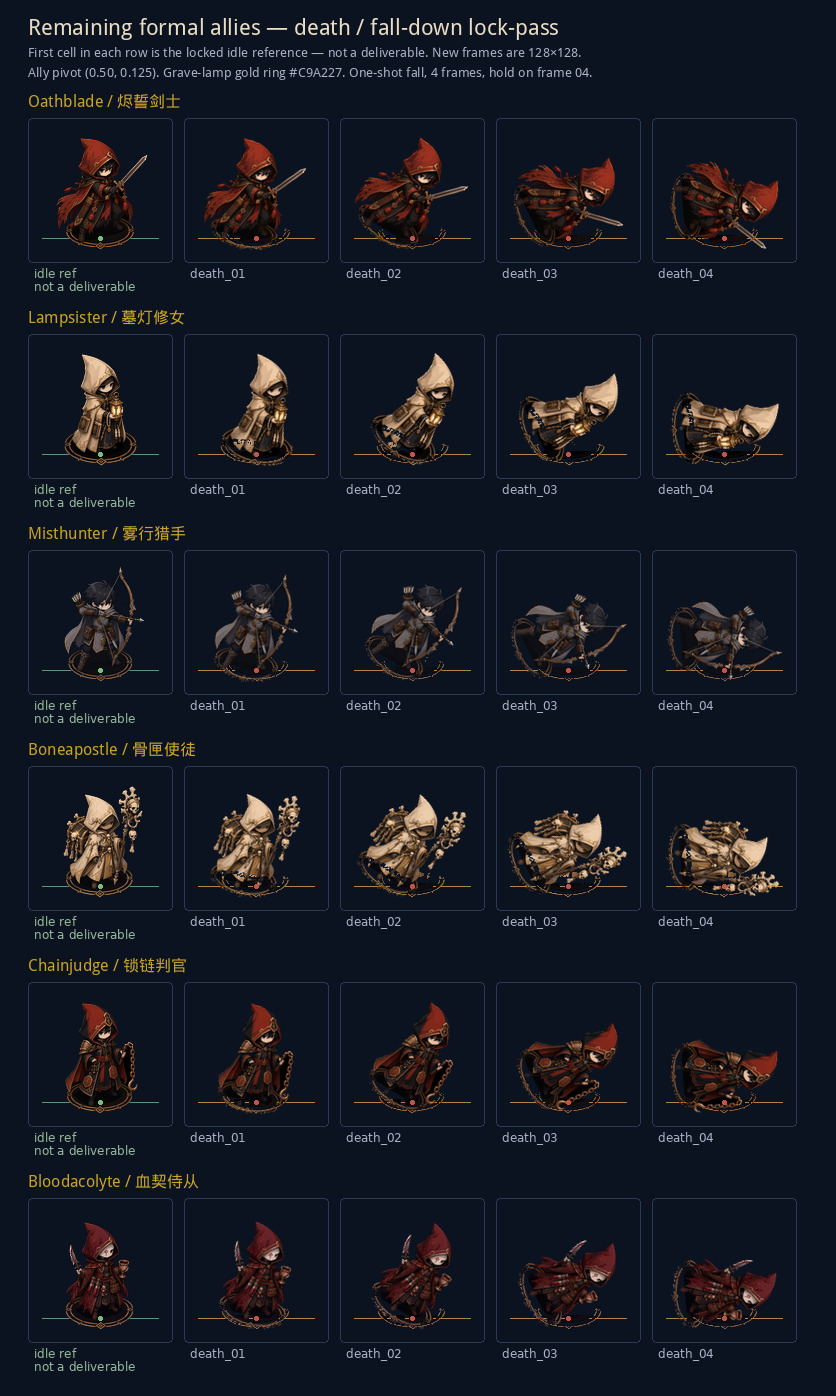
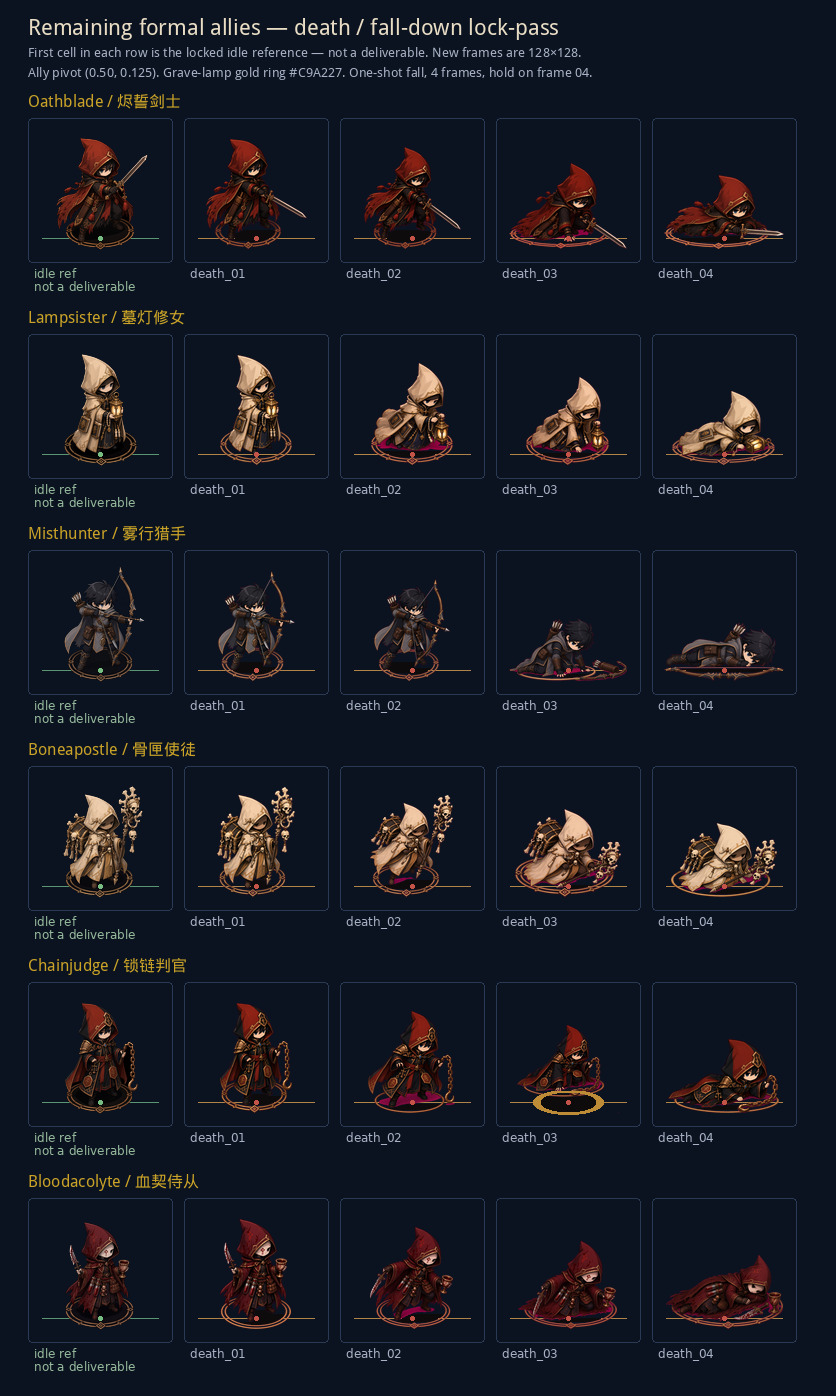
fix: redraw remaining-ally death frames as posed crumples
Replace the tipped idle cutouts with newly posed fall frames: standing
hurt, mid-collapse, near-down, and a held side-lie on a flat gold ring.
Reword the art docs so they no longer say the frames are not wired.

diff --git a/docs/art/USAGE.md b/docs/art/USAGE.md
@@ -54,7 +54,7 @@ Assets/_Project/Art/UI/Hud/ui_ornament_*.png
 Assets/_Project/Art/UI/Hud/ui_bar_endcap_*.png
 ```
 
-Walk and attack paths are shipped for all eight playable allies (`ashguard`, `oathblade`, `lampsister`, `riftmage`, `misthunter`, `boneapostle`, `chainjudge`, `bloodacolyte`). Walk and attack paths for the single M0 enemy placeholder (`unit_placeholder_enemy`, 锈蚀步卒 / Rustsoldier) are also shipped. `unit_placeholder_enemy` is wired into TestArena. Death / fall-down paths for the three default TestArena units (`ashguard`, `riftmage`, `unit_placeholder_enemy`) are shipped as an art lock (see below). Death / fall-down paths for the remaining six official allies are a second art lock (see below) and are not wired. TestArena continues to play the existing idle, walk, and attack clips. M0 hit-flash and death-puff paths are shipped (see below).
+Walk and attack paths are shipped for all eight playable allies (`ashguard`, `oathblade`, `lampsister`, `riftmage`, `misthunter`, `boneapostle`, `chainjudge`, `bloodacolyte`). Walk and attack paths for the single M0 enemy placeholder (`unit_placeholder_enemy`, 锈蚀步卒 / Rustsoldier) are also shipped. `unit_placeholder_enemy` is wired into TestArena. Death / fall-down paths for the three default TestArena units (`ashguard`, `riftmage`, `unit_placeholder_enemy`) are shipped as an art lock (see below). Death / fall-down paths for the remaining six official allies are a second art lock (see below). TestArena keeps playing idle, walk, and attack for those allies. TestArena continues to play the existing idle, walk, and attack clips. M0 hit-flash and death-puff paths are shipped (see below).
 
 Dice faces remain at `Assets/_Project/Art/UI/Dice/ui_dice_{face}_{state}.png`. The HUD kit composites `*_normal` faces into the 48×48 slots; it does not replace the dice pack.
 
@@ -175,7 +175,7 @@ IDs: `ashguard` (灰烬卫士), `oathblade` (烬誓剑士), `lampsister` (墓灯
 | Facing | Right (toward the enemy side) |
 | Ground ring | Grave-lamp gold `#C9A227` |
 
-Import as Sprite (2D and UI). Y-sort by the foot / ring pivot. These files are idle stills. TestArena shows this still for reserve, setup, standing, and the wait between swings. Walk and attack for all eight playable allies are a separate shipped set (below). Death frames for `ashguard` and `riftmage` are a separate shipped art set (see below). Death frames for the remaining six official allies are a second art lock (see below) and are not wired. Character hit-react loops, skill loops, and projectile atlases are still out of scope. The M0 hit-flash and death-puff pack is a separate shipped set (below).
+Import as Sprite (2D and UI). Y-sort by the foot / ring pivot. These files are idle stills. TestArena shows this still for reserve, setup, standing, and the wait between swings. Walk and attack for all eight playable allies are a separate shipped set (below). Death frames for `ashguard` and `riftmage` are a separate shipped art set (see below). Death frames for the remaining six official allies are a second art lock (see below). TestArena keeps playing idle, walk, and attack for those allies. Character hit-react loops, skill loops, and projectile atlases are still out of scope. The M0 hit-flash and death-puff pack is a separate shipped set (below).
 
 Official idles use stronger per-role accent colors (linings, sashes, cloak panels, weapon glow) so the roster is not a single navy mass, and they are accessory-dense with layered materials and chunky ornaments. Each official idle should show 5–7 fairly obvious gear pieces, readable at 64 px (not tiny trim; the gold ground ring does not count). Palette and import settings are otherwise unchanged. The M0 dice / TestArena pack is not voided.
 
@@ -203,7 +203,7 @@ All units use this same frame count.
 | Facing | Right |
 | Ground ring | Grave-lamp gold `#C9A227` |
 
-Folder: `Assets/_Project/Art/Characters/`. Review contact sheets: `docs/art/previews/lockpass_ashguard_riftmage_walk_attack.jpg` and `docs/art/previews/lockpass_remaining6_walk_attack.jpg`. Character hit-react loops, skill loops, and projectile atlases stay out of scope. Death frames for `ashguard` and `riftmage` are a separate shipped art set (see below). Death frames for the remaining six official allies are a second art lock (see below) and are not wired. The M0 hit-flash and death-puff pack is a separate shipped set (below). The M0 dice and TestArena environment pack is unchanged and is not voided.
+Folder: `Assets/_Project/Art/Characters/`. Review contact sheets: `docs/art/previews/lockpass_ashguard_riftmage_walk_attack.jpg` and `docs/art/previews/lockpass_remaining6_walk_attack.jpg`. Character hit-react loops, skill loops, and projectile atlases stay out of scope. Death frames for `ashguard` and `riftmage` are a separate shipped art set (see below). Death frames for the remaining six official allies are a second art lock (see below). TestArena keeps playing idle, walk, and attack for those allies. The M0 hit-flash and death-puff pack is a separate shipped set (below). The M0 dice and TestArena environment pack is unchanged and is not voided.
 
 ## Enemy placeholder walk + attack (锈蚀步卒 / Rustsoldier)
 
@@ -260,7 +260,7 @@ Folder: `Assets/_Project/Art/Characters/`. Review contact sheet: `docs/art/previ
 
 In scope and shipped for `oathblade` (烬誓剑士), `lampsister` (墓灯修女), `misthunter` (雾行猎手), `boneapostle` (骨匣使徒), `chainjudge` (锁链判官), and `bloodacolyte` (血契侍从).
 
-This is an art lock only. TestArena is not wired to these frames. It continues to play the existing idle, walk, and attack clips. Do not change simulation numbers in this pass. `ashguard`, `riftmage`, and the rusted-footsoldier death frames are unchanged.
+This is an art lock only. TestArena keeps playing the existing idle, walk, and attack clips. Do not change simulation numbers in this pass. `ashguard`, `riftmage`, and the rusted-footsoldier death frames are unchanged.
 
 | Clip | Count | Naming |
 |------|-------|--------|
@@ -304,4 +304,4 @@ Playback: recommended 10 fps, 100 ms per frame, 0.4 s total. Do not loop.
 
 Review contact sheet: `docs/art/previews/lockpass_m0_hit_death_vfx.jpg`.
 
-Still out of scope: skill loops, projectile atlases, Boss VFX, character hit-react loops, Grave-Lamp Village, additional enemy types. Death frames for the remaining six official allies are shipped as an art lock above and are not wired.
+Still out of scope: skill loops, projectile atlases, Boss VFX, character hit-react loops, Grave-Lamp Village, additional enemy types. Death frames for the remaining six official allies are shipped as an art lock above. TestArena keeps playing idle, walk, and attack.

diff --git a/docs/art/STYLE_GUIDE.md b/docs/art/STYLE_GUIDE.md
@@ -202,7 +202,7 @@ IDs: `face_sword` → `ui_dice_sword_*`; `unit_placeholder_melee` / `caster` / `
 - 3D meshes, perspective cameras, photo-rock / photo-fabric
 - Pixel-art nearest look for this pack
 - Cozy pastoral greens, neon UI, Grave-Lamp Village as TestArena
-- Shipping official 8-ally **idle** sprites is now in scope (see roster below). Official **walk** and **attack** frames are now in scope and shipped for all eight playable allies (see below). Enemy placeholder **walk** and **attack** are now in scope and shipped (see below). Death / fall-down frames for the three default TestArena units (`ashguard`, `riftmage`, `unit_placeholder_enemy`) are now in scope and shipped (see below). Death / fall-down frames for the remaining six official allies are a second art lock and are shipped (see below); they are not wired. The M0 **hit flash** and **death puff** pack is in scope and shipped (see below). Still out of scope: 6 enemies, Boss, Boss VFX, character hit-react loops, skill loops, projectile atlases, Grave-Lamp Village, shop or large-map UI, audio, 80 icons
+- Shipping official 8-ally **idle** sprites is now in scope (see roster below). Official **walk** and **attack** frames are now in scope and shipped for all eight playable allies (see below). Enemy placeholder **walk** and **attack** are now in scope and shipped (see below). Death / fall-down frames for the three default TestArena units (`ashguard`, `riftmage`, `unit_placeholder_enemy`) are now in scope and shipped (see below). Death / fall-down frames for the remaining six official allies are a second art lock and are shipped (see below). TestArena keeps playing idle, walk, and attack for those allies. The M0 **hit flash** and **death puff** pack is in scope and shipped (see below). Still out of scope: 6 enemies, Boss, Boss VFX, character hit-react loops, skill loops, projectile atlases, Grave-Lamp Village, shop or large-map UI, audio, 80 icons
 - Restyling or shipping 墓灯村, shop UI, world-map UI, or a full official HUD as part of this M0 TestArena kit
 - Default engine-green HP bars (use rust `#8B2E32`)
 - Baking player-visible strings (出征 / 掷骰 / 确认 / 命运能量 / 生命 / 护盾 / 双生 / 同调) into reusable 9-slices
@@ -248,7 +248,7 @@ Official walk and attack frames are in scope and shipped for all eight playable 
 
 **TestArena playback** (all eight, one constant set in `AllyPoseClock`): 8 frames per second. Movement (seeking or repositioning) loops the walk. The instant a basic attack swings, the attack plays once and does not loop. When that one-shot ends, idle plays while the unit waits out the rest of its attack interval. Reserve, setup, and any unit that has not marched stay on idle. `unit_placeholder_enemy` is wired into TestArena on the same `AllyPoseClock` (see below). The 0.5 s attack clip finishes inside the existing intervals (melee 1.2 s, ranged 1.5 s). Those combat numbers are unchanged.
 
-Character hit-react loops, skill loops, and projectile atlases stay out of scope. Death frames for `ashguard` and `riftmage` are a separate shipped art set (see below). Death frames for the remaining six official allies are a second art lock (see below) and are not wired into TestArena. The M0 hit-flash and death-puff pack is a separate shipped set (see below).
+Character hit-react loops, skill loops, and projectile atlases stay out of scope. Death frames for `ashguard` and `riftmage` are a separate shipped art set (see below). Death frames for the remaining six official allies are a second art lock (see below). TestArena keeps playing idle, walk, and attack for those allies. The M0 hit-flash and death-puff pack is a separate shipped set (see below).
 
 Import matches idle: **128×128** RGBA, PPU **64**, filter **Bilinear**, Texture Type **Sprite (2D and UI)**, pivot about **(0.50, 0.125)** at the feet / gold ring, facing **right**, grave-lamp gold ring `#C9A227`. Q 版暗黑 style lock, palette, and the 5–7 gear quota still apply. TestArena plays these frames with the rules above. The M0 dice and TestArena environment pack is unchanged and is not voided.
 
@@ -312,7 +312,7 @@ Review contact sheet: `docs/art/previews/lockpass_default_units_death.jpg`.
 
 Death / fall-down frames are in scope and shipped for the six formal allies that were not in the first batch: `oathblade` (烬誓剑士), `lampsister` (墓灯修女), `misthunter` (雾行猎手), `boneapostle` (骨匣使徒), `chainjudge` (锁链判官), and `bloodacolyte` (血契侍从).
 
-This is an art lock only. TestArena is not wired to these frames. Combat and simulation numbers are unchanged. Do not treat this pack as a code or balance change.
+This is an art lock only. TestArena keeps playing the existing idle, walk, and attack clips. Combat and simulation numbers are unchanged. Do not treat this pack as a code or balance change.
 
 | Clip | Frames | Playback intent |
 |------|--------|-----------------|
@@ -371,4 +371,4 @@ fx_death_puff_{ally|enemy}_01.png … fx_death_puff_{ally|enemy}_04.png
 
 Review contact sheet: `docs/art/previews/lockpass_m0_hit_death_vfx.jpg`.
 
-Still out of scope: skill loops, projectile atlases, Boss VFX, character hit-react loops, Grave-Lamp Village, additional enemy types. Death frames for the remaining six official allies are shipped as an art lock above and are not wired.
+Still out of scope: skill loops, projectile atlases, Boss VFX, character hit-react loops, Grave-Lamp Village, additional enemy types. Death frames for the remaining six official allies are shipped as an art lock above. TestArena keeps playing idle, walk, and attack.
